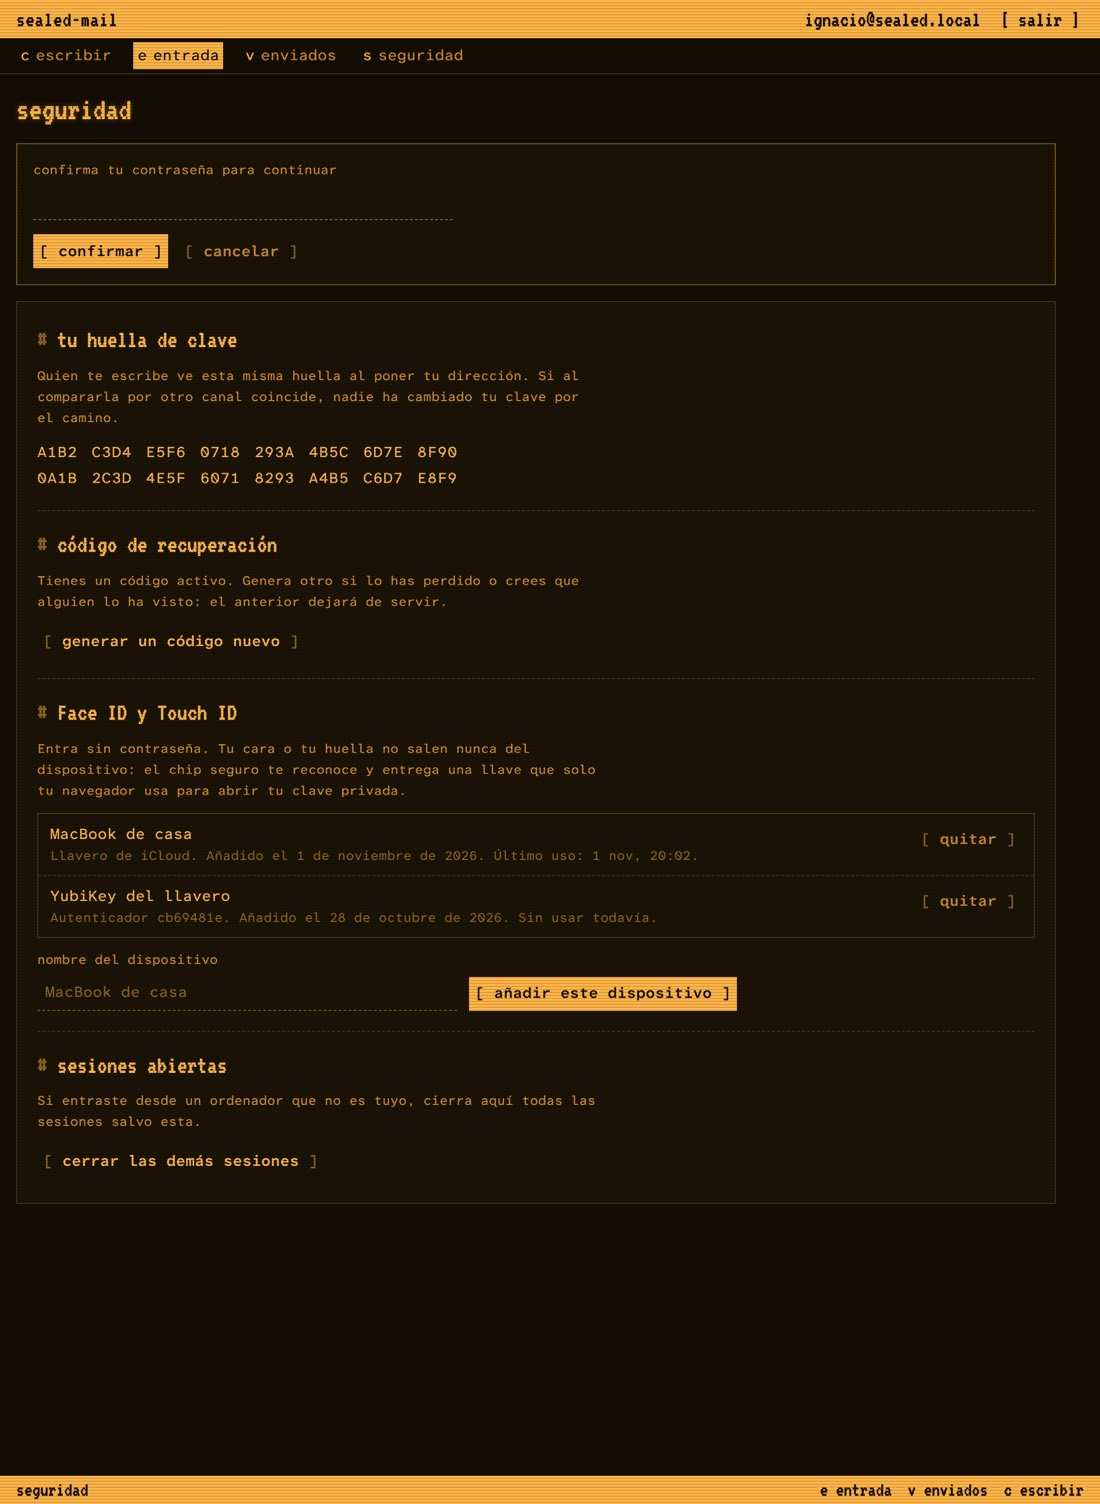
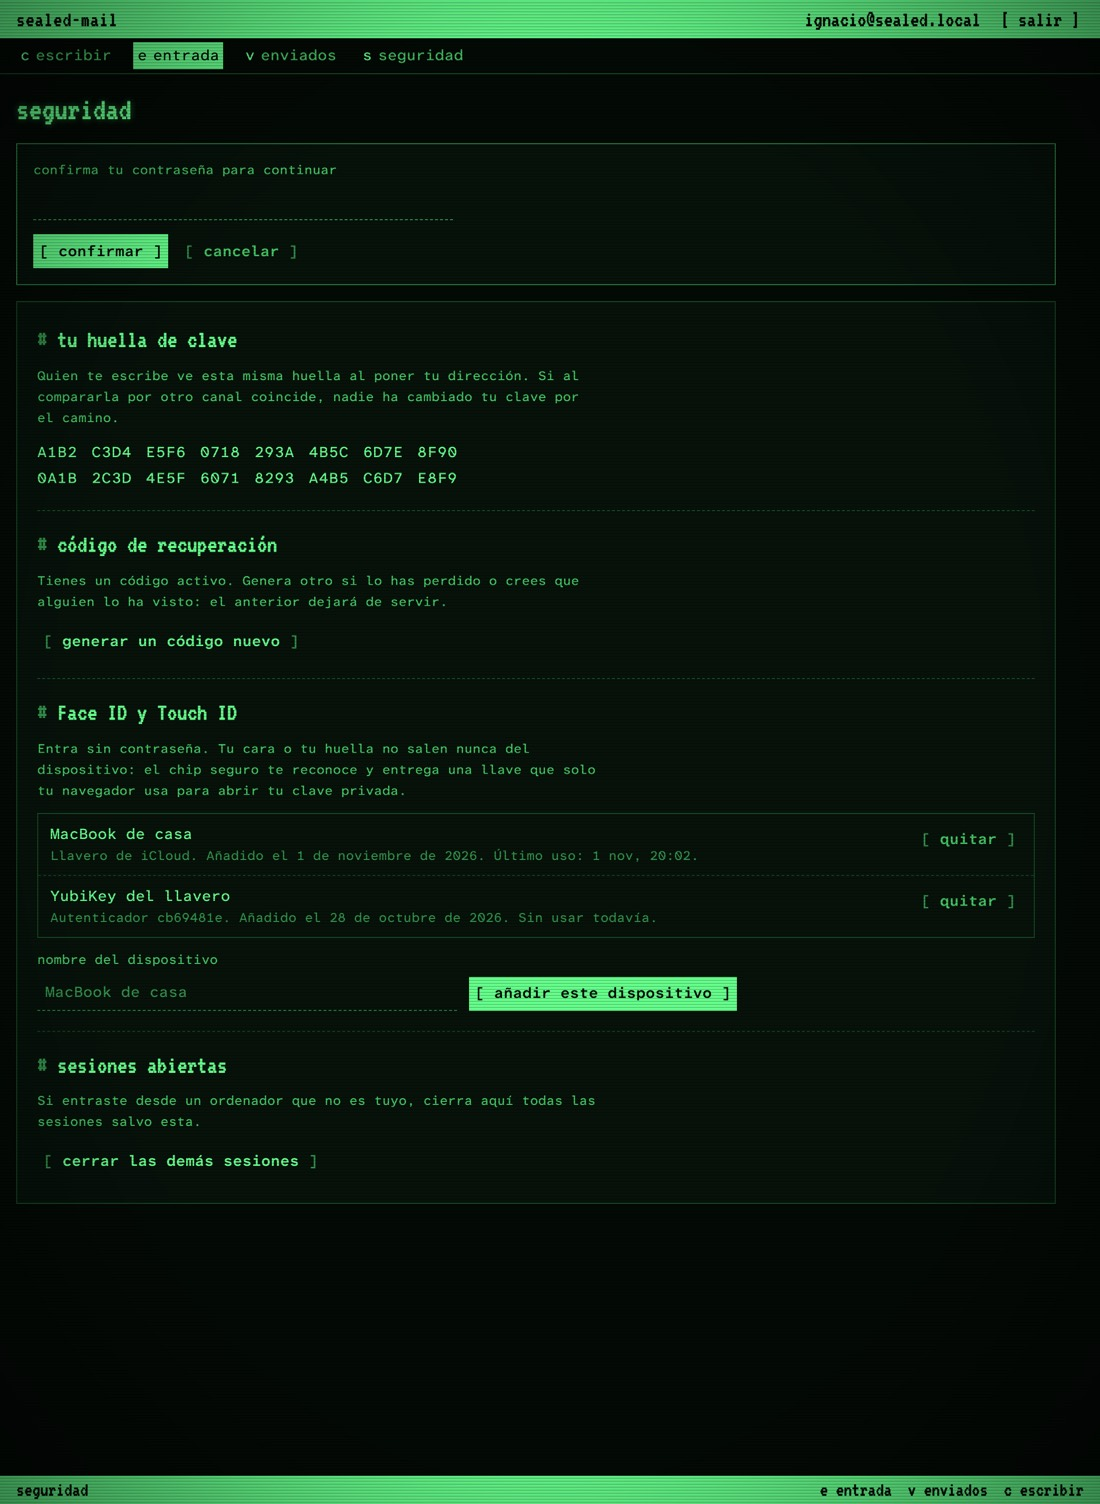
feat(ui): green phosphor terminal
Switch the palette from amber to a P1 green phosphor on green-black glass,
avoiding the acid #00ff41 of film hackers; faint text keeps 4.5:1 contrast.

- Phosphor persistence: the folder row you leave fades out like a lit CRT
  pixel, the one you land on lights at once (off with reduced motion).
- Sign-in and compose fields are inline getty-style prompts (correo:, para:),
  aligned with the reader's headers.
- Block caret where supported, and darker tube corners next to the scanlines
  (both overlays off with prefers-contrast: more).
- On narrow screens a long button label wraps with its brackets.

Claude-Session: https://claude.ai/code/session_01KtGzukH7cd5oC3Y5ft1rew

diff --git a/public/css/styles.css b/public/css/styles.css
@@ -1,8 +1,9 @@
-/* Sealed Mail — amber phosphor terminal.
+/* Sealed Mail — green phosphor terminal.
    The reference is the terminal mail client (mutt, pine): one line per message,
    inverse-video status bars, everything reachable from the keyboard, encrypted
-   mail shown as an ASCII-armored block. Amber phosphor (VT-series terminals), not
-   the usual green: one colour, its dim shades, and red only for warnings.
+   mail shown as an ASCII-armored block. The green is a P1 phosphor at moderate
+   drive on green-black glass, not the acid #00ff41 of film hackers: one colour,
+   its dim shades, a near-white "bright" attribute, and red only for warnings.
 
    Type:
      display  VT323 (a DEC VT320 font): titles and status bars only
@@ -27,17 +28,17 @@
 }
 
 :root {
-  --paper: #140d03;      /* phosphor screen glass */
-  --sheet: #1b1305;      /* raised panels */
-  --ink: #ffb547;        /* amber phosphor */
-  --ink-2: #c98a2e;      /* dim */
-  --ink-3: #8a6224;      /* faint */
-  --rule: #4a3412;
-  --tint-ground: #1a1205;
-  --on-ink: #140d03;     /* text on inverse video */
-  --danger: #ff5f4a;     /* ANSI bright red: warnings only */
-  --ok: #ffd28a;
-  --focus: #ffe2a8;
+  --paper: #030a05;      /* the tube's glass, switched off */
+  --sheet: #06120a;      /* raised panels */
+  --ink: #66ff8c;        /* P1 phosphor */
+  --ink-2: #44c463;      /* dim */
+  --ink-3: #33914b;      /* faint, still 4.5:1 on the glass */
+  --rule: #164a24;
+  --tint-ground: #0a1d10;
+  --on-ink: #030a05;     /* text on inverse video */
+  --danger: #ff5f56;     /* ANSI bright red: warnings only */
+  --ok: #b8ffc9;
+  --focus: #b8ffc9;      /* the terminal's "bright" attribute */
 
   --font-display: 'VT323', ui-monospace, Menlo, monospace;
   --font-mono: 'Atkinson Hyperlegible Mono', ui-monospace, Menlo, Consolas, monospace;
@@ -51,7 +52,7 @@
 
   --r-control: 0;
   --r-sheet: 0;
-  --glow: 0 0 6px rgba(255, 181, 71, 0.35);
+  --glow: 0 0 7px rgba(102, 255, 140, 0.4);
   --gutter: max(16px, env(safe-area-inset-left, 0px));
   --gutter-r: max(16px, env(safe-area-inset-right, 0px));
   color-scheme: dark;
@@ -66,14 +67,17 @@ body {
   color: var(--ink);
   font: 400 var(--t-body)/1.6 var(--font-mono);
 }
-/* faint scanlines; off for anyone asking for more contrast */
+/* faint scanlines and the darker corners of a curved tube; both off for anyone
+   asking for more contrast */
 body::after {
   content: '';
   position: fixed;
   inset: 0;
   pointer-events: none;
   z-index: 50;
-  background: repeating-linear-gradient(to bottom, transparent 0 2px, rgba(0, 0, 0, 0.16) 2px 3px);
+  background:
+    repeating-linear-gradient(to bottom, transparent 0 2px, rgba(0, 0, 0, 0.18) 2px 3px),
+    radial-gradient(ellipse at center, transparent 62%, rgba(0, 0, 0, 0.45) 100%);
 }
 @media (prefers-contrast: more) { body::after { display: none; } }
 ::selection { background: var(--ink); color: var(--on-ink); }
@@ -159,10 +163,14 @@ input, textarea {
   background: transparent;
   color: var(--ink);
   caret-color: var(--ink);
+  caret-shape: block; /* where supported: a terminal cursor, not a line */
   font: 400 var(--t-body)/1.5 var(--font-mono);
 }
 input:focus, textarea:focus { outline: none; background: var(--sheet); border-bottom: 1px solid var(--ink); }
 input::placeholder, textarea::placeholder { color: var(--ink-3); }
+/* getty-style prompt: "correo: ____" on one line, like a terminal login */
+label.prompt { display: grid; grid-template-columns: var(--prompt-w, 12ch) minmax(0, 1fr); align-items: baseline; gap: 0 8px; font-size: var(--t-body); }
+.compose { --prompt-w: 8ch; }
 .check { flex-direction: row; align-items: center; gap: 10px; color: var(--ink); font-size: var(--t-body); }
 .check input { width: 18px; min-height: 18px; height: 18px; accent-color: var(--ink); }
 
@@ -320,6 +328,12 @@ input::placeholder, textarea::placeholder { color: var(--ink-3); }
 .msg > * { overflow: hidden; text-overflow: ellipsis; }
 .msg:hover { background: var(--tint-ground); }
 .msg.selected { background: var(--ink); color: var(--on-ink); }
+/* phosphor persistence: the row you leave fades out like a lit CRT pixel; the row
+   you land on lights at once */
+@media (prefers-reduced-motion: no-preference) {
+  .msg, .msg > * { transition: background-color 320ms ease-out, color 320ms ease-out; }
+  .msg.selected, .msg.selected > * { transition: none; }
+}
 .msg:focus-visible { outline-offset: -2px; }
 .msg-flag { color: var(--ink); white-space: pre; overflow: visible; }
 .msg-flag.alert { color: var(--danger); }
@@ -376,6 +390,8 @@ input::placeholder, textarea::placeholder { color: var(--ink-3); }
 /* ---------- small screens ---------- */
 @media (max-width: 720px) {
   .pitch h1 { font-size: var(--t-5); }
+  /* a long button label wraps with its brackets instead of stranding them */
+  .btn:not(.block) { display: inline-block; padding-block: 8px; line-height: 1.4; text-align: left; }
   .msg { grid-template-columns: 2ch minmax(0, 1fr) auto; grid-template-areas: "flag from date" "flag subject subject"; }
   .msg-flag { grid-area: flag; }
   .msg-date { grid-area: date; }

diff --git a/public/index.html b/public/index.html
@@ -41,10 +41,10 @@
         <button id="tabRegister" class="tab" type="button">crear cuenta</button>
       </div>
       <form id="authForm" autocomplete="off">
-        <label>correo
+        <label class="prompt">correo:
           <input id="email" type="email" required autocomplete="username" placeholder="nombre@sealed.local">
         </label>
-        <label>contraseña
+        <label class="prompt">contraseña:
           <input id="password" type="password" required autocomplete="current-password">
         </label>
         <p id="pwHint" class="hint" hidden>Mínimo 10 caracteres. Al crear la cuenta recibirás un código de
@@ -138,11 +138,11 @@
     <div id="composeView" class="content-inner" hidden>
       <h2 class="panel-title">mensaje nuevo</h2>
       <form id="composeForm" class="sheet compose">
-        <label>para
+        <label class="prompt">para:
           <input id="to" type="email" required placeholder="nombre@sealed.local o cualquier dirección">
         </label>
         <p id="recipFp" class="hint" hidden></p>
-        <label>asunto
+        <label class="prompt">asunto:
           <input id="subject" type="text" maxlength="200">
         </label>
         <label>mensaje

diff --git a/README.md b/README.md
@@ -240,8 +240,11 @@ docs/          SECURITY.md and README images
 
 ## Design
 
-A terminal mail reader in the spirit of mutt and pine: amber phosphor on black, one
-theme. The app is driven from the keyboard (`c` write, `e` inbox, `v` sent,
+A terminal mail reader in the spirit of mutt and pine: green P1 phosphor on
+green-black glass, one theme, with faint scanlines and darker corners like a curved
+tube. When you move through a folder, the row you leave fades out like a lit CRT pixel.
+Sign-in and compose fields are inline prompts (`correo:`, `para:`), as at a terminal
+login. The app is driven from the keyboard (`c` write, `e` inbox, `v` sent,
 `s` security, `j`/`k` or arrows to move, Enter to open, `q` or Esc to go back) and
 every key is also a button for touch screens. A status bar always says where you are
 and which keys work there. Each folder is a one-line-per-message index whose flag
